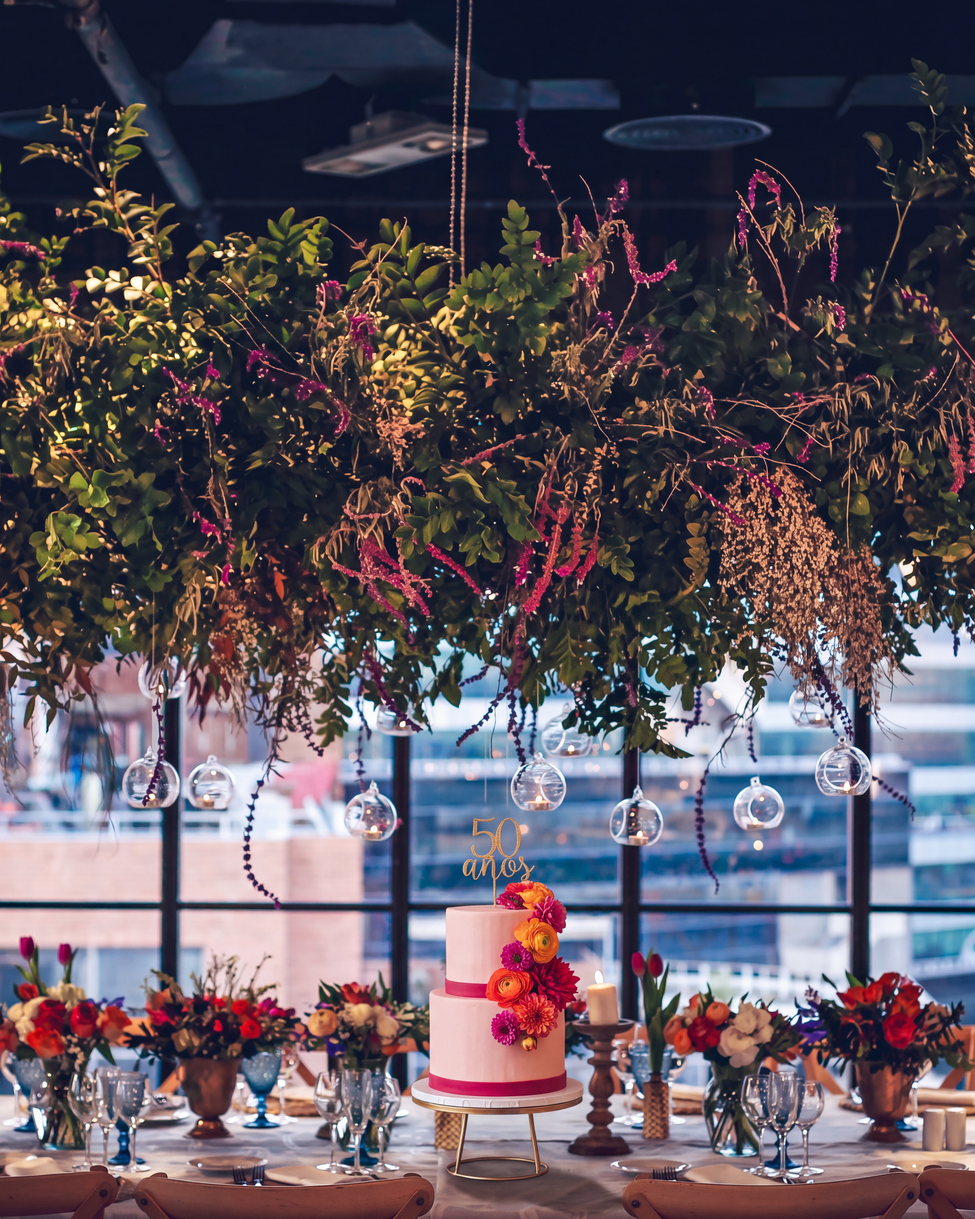
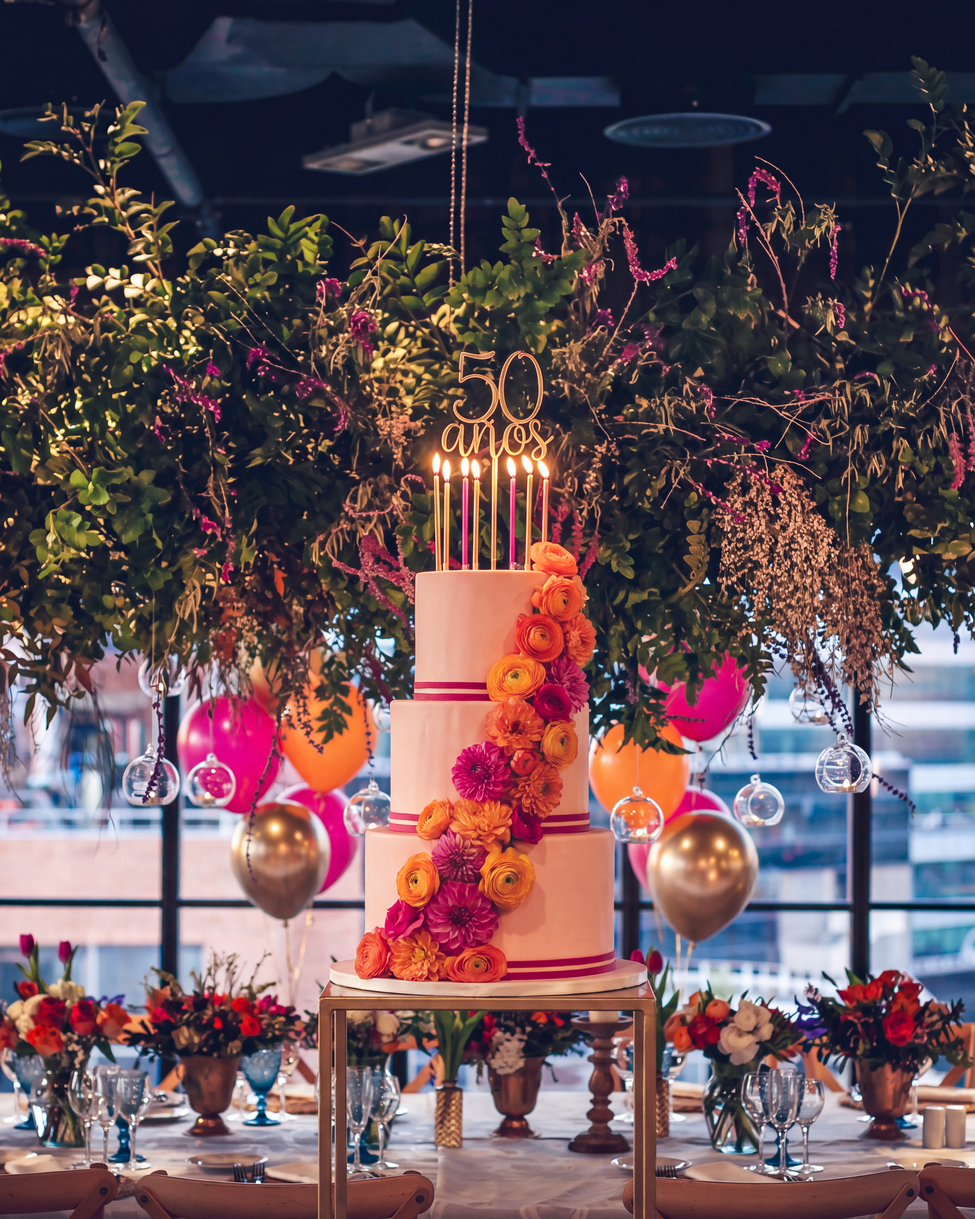
PISO18 S5 ronda 3: la escena de esta marca lee matrimonio por defecto
Ultima ronda de la S5. Eli dio por buenas las otras cuatro piezas y corrigio solo
la portada del carrusel, en la misma escena y en el mismo archivo de Drive.

1. La torta paso de dos pisos a cuatro. Medido aislando el glaseado en la columna
   central de la pieza: el cuerpo paso de ocupar el 15 % del alto al 52 %. El
   defecto real no era el tamano absoluto sino que su cima quedaba POR DEBAJO de
   la linea del follaje colgante y se perdia contra el. De ahi la regla: el
   protagonista de una portada tiene que cortar contra el fondo, no quedar dentro
   de la masa visual de otro elemento.

2. Entraron velas de cumpleanos encendidas y globos. La escena de Piso18 —jardin
   colgante, manteleria, copones dorados— LEE MATRIMONIO POR DEFECTO, y un topper
   de "50 anos" no alcanza a desempatarla. Hacen falta elementos que en un
   matrimonio no existen. Los globos no se inventaron: estan en el brief del
   propio carrusel, en la slide 2. Y su color se toma de la foto —los mismos
   ranunculos y dalias naranjas y fucsias de los centros de mesa—, no se elige
   aparte.

   Recordatorio de prompts: no escribir "serpentinas" (en Between devolvio
   serpientes). Se pidieron globos y velas, y se prohibio explicitamente confeti
   y guirnaldas de papel.

3. Fuera el logotipo de la portada —"muy repetitivo"—, y con el el velo superior
   que existia solo para sostenerlo. Esto CORRIGE la gramatica escrita ("portada:
[…]

diff --git a/src/compositions/piso18/P18C1Cumple.tsx b/src/compositions/piso18/P18C1Cumple.tsx
@@ -117,7 +117,7 @@ import React from 'react';
 import {AbsoluteFill, Img, staticFile} from 'remotion';
 import {P18, cargarFuentesP18} from '../../brand/piso18';
 
-const W = 1080;
+// (el ancho de mesa es 1080; ya no hace falta como constante: la portada perdió el logotipo)
 const H = 1350;
 
 /** Sombra de la marca: UNA sola, difusa. Ver ronda 3 de la S4. */
@@ -139,21 +139,6 @@ const VeloPie: React.FC<{hasta?: number; opacidad?: number}> = ({
       }) ${hasta * 0.32 * 100}%, rgba(8,8,10,${opacidad * 0.30}) ${
         hasta * 0.66 * 100
       }%, rgba(8,8,10,0) ${hasta * 100}%)`,
-    }}
-  />
-);
-
-/** El logotipo completo, blanco, arriba y centrado. Geometría medida. */
-const LogoFeed: React.FC = () => (
-  <Img
-    src={staticFile('assets/hilton/piso18/logo.png')}
-    style={{
-      position: 'absolute',
-      width: P18.geometria.logoAncho,
-      height: P18.geometria.logoAncho / P18.geometria.logoProporcion,
-      left: (W - P18.geometria.logoAncho) / 2,
-      top: P18.geometria.logoYFeed,
-      filter: 'drop-shadow(0 2px 22px rgba(0,0,0,0.45))',
     }}
   />
 );
@@ -208,17 +193,22 @@ export const P18C1CumpleS1: React.FC = () => {
         style={{width: '100%', height: '100%', objectFit: 'cover'}}
       />
       {/*
-        Velo SUPERIOR, no inferior: acá lo único que hay que sostener es el
-        logotipo blanco, y arriba la foto tiene el ventanal claro. Es el mismo
-        degradado de la plantilla de la marca, suave.
+        ⛔⛔ ESTA PORTADA NO LLEVA LOGOTIPO — ronda 3 de Eli, 15-09-2026.
+        *«Y bórrale el logo, muy repetitivo.»*
+
+        Manda sobre lo que dice la gramática medida más arriba («portada: foto a
+        sangre + logotipo completo blanco arriba») y sobre la instrucción que el
+        cliente había dado para el carrusel del 22-09 («logo en la primera G»).
+        El motivo es de FEED, no de pieza: la marca ya viene firmando las piezas
+        vecinas del mes y repetirla acá no suma.
+
+        ⇒ Y con el logotipo se va también el velo superior, que existía sólo para
+        sostenerlo. Sin él la foto entra limpia y a sangre, que es lo que el brief
+        pide para esta slide («Texto: Sin texto»).
+
+        ⚠ No se generaliza: es el criterio de Eli PARA ESTA PORTADA. En el
+        carrusel aprobado `C2 S1 n°1` el logotipo va, y ahí sigue.
       */}
-      <AbsoluteFill
-        style={{
-          background:
-            'linear-gradient(to bottom, rgba(0,0,0,0.42) 0%, rgba(0,0,0,0.20) 26%, rgba(0,0,0,0.06) 42%, rgba(0,0,0,0) 56%)',
-        }}
-      />
-      <LogoFeed />
     </AbsoluteFill>
   );
 };

diff --git a/clients/hilton/CLAUDE.md b/clients/hilton/CLAUDE.md
@@ -1889,7 +1889,57 @@ tinta por bandas y se compara con el eje del lienzo. En la pieza corregida, desv
 respecto de 1125: logo **−0,5** · titular **−2,0** · bajada **−5,5** · teléfonos
 **−5,0**. Todo bajo 10 px, que es el 0,4 % del ancho.
 
-##### c · La entrega se reemplaza en el MISMO archivo
+##### c · ⭐⭐⭐ LA RONDA 3 — «la torta no se destaca en nada» y «bórrale el logo»
+
+> *«La portada del carrusel, la torta que se vea más grande y alta, no se destaca
+> en nada. Y añade detalles de cumpleaños, se ve muy de matrimonio aún. Y bórrale
+> el logo, muy repetitivo. Las demás de la S5 okey.»*
+
+Tres cosas, y **las tres son de la misma familia**: una portada de carrusel tiene
+que decir de qué se trata **antes de que nadie lea nada**.
+
+**1 · El tamaño del protagonista se mide, no se estima.** La torta pasó de dos
+pisos a **cuatro**. Aislando el glaseado en la columna central de la pieza, el
+cuerpo de la torta pasó de ocupar el **15 % del alto al 52 %** — tres veces y
+media. El defecto real no era el tamaño absoluto sino que **su cima quedaba por
+debajo de la línea del follaje colgante** y se perdía contra él.
+
+⇒ Regla: en una portada con un solo protagonista, comprobar que **su silueta corta
+contra el fondo** y no queda dentro de la masa visual de otro elemento.
+
+**2 · ⭐⭐ LA ESCENA DE ESTA MARCA LEE «MATRIMONIO» POR DEFECTO.** Jardín colgante,
+mantelería, copones dorados y cristalería son lenguaje de banquete, y **un topper
+de «50 años» no alcanza a desempatarlo**. Lo que sí lo desempata son elementos que
+en un matrimonio no existen:
+
+| Elemento | Por qué funciona |
+|---|---|
+| **Velas de cumpleaños encendidas** | Es el gesto que ninguna otra celebración tiene |
+| **Globos** | Lectura inmediata de fiesta. ⭐ Y no hubo que inventarlos: «globos» está en el brief del propio carrusel, en la slide 2 |
+
+⚠ La paleta de los añadidos **se toma de la foto**, no se elige aparte: las flores
+de la torta son los mismos ranúnculos y dalias naranjas y fucsias de los centros de
+mesa, y los globos repiten esos dos tonos más el dorado de los copones.
+
+⛔ **No escribir «serpentinas» en un prompt** — en Between eso devolvió serpientes.
+Acá se pidieron «globos» y «velas», y se prohibió explícitamente confeti y
+guirnaldas de papel para que no las agregara por su cuenta.
+
+**3 · ⛔ LA PORTADA DEL CARRUSEL NO SIEMPRE LLEVA LOGOTIPO.** Esto **corrige la
+gramática escrita más arriba** («portada: foto a sangre + logotipo completo blanco
+arriba, centrado») y también la instrucción que el cliente había dado para el
+carrusel del 22-09 («logo en la primera G»).
+
+El motivo que dio Eli es **de feed, no de pieza**: *«muy repetitivo»*. La marca ya
+viene firmando las piezas vecinas del mes y repetirla acá no suma.
+
+⚠ **No se generaliza a toda la cuenta**: en el carrusel aprobado `C2 S1 n°1` el
+logotipo va. Lo que queda escrito es que **el logotipo de portada es una decisión
+de ritmo del feed y se consulta**, no un elemento obligatorio.
+⇒ Y al sacarlo se va también **el velo superior**, que existía sólo para
+sostenerlo: sin él la foto entra limpia y a sangre.
+
+##### d · La entrega se reemplaza en el MISMO archivo
 
 Los cinco `fileId` de Drive no cambiaron entre rondas —`files().update`—, así que
 cualquier enlace que el cliente ya tenga sigue sirviendo. Es la regla de la cuenta

diff --git a/clients/hilton/BITACORA.md b/clients/hilton/BITACORA.md
@@ -6,6 +6,53 @@
 
 ---
 
+## 2026-09-15 (noche) — PISO18 · S5 RONDA 3 · **la S5 queda cerrada**
+
+**Marca: PISO18.** Última ronda. Eli dio por buenas las otras cuatro piezas —*«las
+demás de la S5 okey»*— y corrigió sólo **la portada del carrusel**.
+
+**Qué dijo:** *«La portada del carrusel, la torta que se vea más grande y alta, no
+se destaca en nada. Y añade detalles de cumpleaños, se ve muy de matrimonio aún.
+Y bórrale el logo, muy repetitivo.»*
+
+**Qué se hizo, en la misma escena (`piso_18-154`) y con el mismo archivo de Drive:**
+
+1. **La torta pasó de dos pisos a cuatro.** Medido aislando el glaseado en la
+   columna central: el cuerpo pasó de ocupar el **15 % del alto al 52 %**. El
+   defecto no era el tamaño absoluto sino que su cima quedaba **por debajo de la
+   línea del follaje colgante** y se perdía contra él.
+2. **Entraron velas de cumpleaños encendidas y globos.** La escena de esta marca
+   —jardín colgante, mantelería, copones dorados— **lee matrimonio por defecto**, y
+   un topper de «50 años» no alcanza a desempatarla. Los globos no se inventaron:
+   están en el brief del propio carrusel, en la slide 2.
+3. **Fuera el logotipo** de la portada, y con él el velo superior que existía sólo
+   para sostenerlo.
+
+**Las tres lecciones, que valen más allá de esta pieza:**
+
+- ⭐ **El protagonista de una portada tiene que cortar contra el fondo**, no quedar
+  dentro de la masa visual de otro elemento. Se comprueba mirando la silueta, y el
+  tamaño se mide, no se estima.
+- ⭐⭐ **La escena de Piso18 lee «matrimonio» por defecto.** Para que una pieza diga
+  cumpleaños hacen falta elementos que en un matrimonio no existen: velas
+  encendidas y globos. Y su color se toma de la foto, no se elige aparte.
+- ⛔ **La portada del carrusel no siempre lleva logotipo.** Corrige la gramática
+  escrita y la instrucción del 22-09. Es decisión de **ritmo del feed** y se
+  consulta; no se generaliza (en `C2 S1 n°1` el logotipo va).
+
+⛔ Y el recordatorio de siempre con los prompts: **no escribir «serpentinas»** —en
+Between devolvió serpientes—. Se pidieron «globos» y «velas», y se prohibió
+explícitamente confeti y guirnaldas de papel.
+
+**Estado: la S5 de Piso18 está entregada y sin comentarios abiertos.** Los cinco
+`fileId` de Drive siguen siendo los mismos desde la ronda 1.
+
+**Lo que sigue pendiente de la CUENTA (no de la S5):** la ST del 21-09 sigue sin
+brief de diseño; falta `Edwardian Script ITC`; y sigue sin diagnosticar el «quedó
+algo extraño detrás del logo» del cliente.
+
+---
+
 ## 2026-09-15 (noche) — PISO18 · S5 RONDA 2, las correcciones de Eli aplicadas
 
 **Marca: PISO18.** Continúa la entrada de más abajo y **reemplaza su entrega**: los
